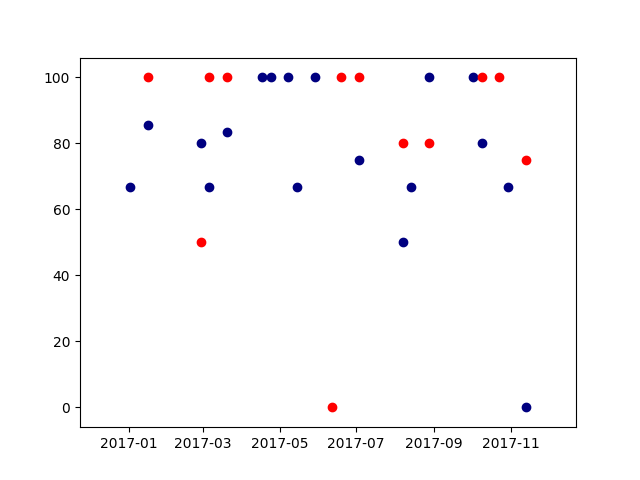
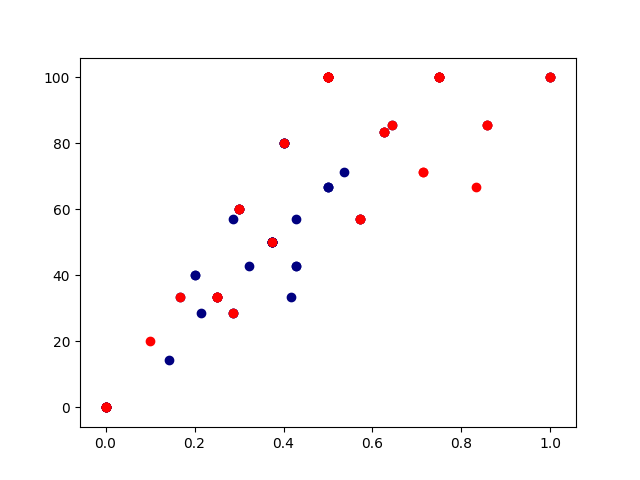
get the mean from current back to some period

diff --git a/src/dw/tennis_data_handle.py b/src/dw/tennis_data_handle.py
@@ -6,6 +6,7 @@ import pandas as pd
 import numpy as np
 import time
 import matplotlib.pyplot as plt
+from sklearn import preprocessing
 
 '''
 purpose: select query to get the main table and check the data
@@ -21,17 +22,16 @@ cursor = db1.cursor()
 
 
 sql_commnd = '''
-    SELECT player_name, win_percent, tourney_date 
+    SELECT *, win_percent * level_weight as wt_win_percent
     FROM player_wl_tourney
-    WHERE (lower(player_name) like '%raf%nad%' or lower(player_name) like '%rog%fed%') and tourney_date between '2017-01-01 00:00:00' and '2017-12-31 23:59:00' 
-    ORDER BY tourney_date
+    WHERE (lower(player_name) like '%raf%nad%' or lower(player_name) like '%rog%fed%') and tourney_date between '2015-01-01 00:00:00' and '2017-12-31 23:59:00' 
+    ORDER BY player_name, tourney_date
     '''
-
+# 
 df = pd.read_sql_query(sql = sql_commnd, con=db1)
 
-# cursor.execute('show columns in player_info')
-# tables = cursor.fetchall()
-# print (tables)
+db1.close()
+
 
 winner_name = 'winner_name'
 tourney_name = 'tourney_name'
@@ -42,12 +42,26 @@ surface = 'surface'
 draw_size = 'draw_size'
 loser_count = 'loser_count'
 win_percent = 'win_percent'
+rolling_score_180 = 'rolling_score_180'
+wt_win_percent = 'wt_win_percent'
 
-db1.close()
+
+
+# print (df.shape)
+def get_rolling_amount(grp, freq): 
+    return grp.rolling(freq, on='tourney_date')['wt_win_percent'].mean()
+
+df['rolling_score_180'] = np.transpose(df.groupby('player_name', as_index = False, group_keys = False).apply(get_rolling_amount, '180D'))
+# print (df.head())
+
+df['scaled_xxx'] = (df[wt_win_percent] - df[wt_win_percent].min())/ (df[wt_win_percent].max() - df[wt_win_percent].min())
 # print (df.head())
 fig, axes = plt.subplots(1, 1)
-axes.scatter(df.loc[df[player_name] == 'Rafael Nadal', tourney_date], df.loc[df[player_name] == 'Rafael Nadal', win_percent], c = 'navy')
-axes.scatter(df.loc[df[player_name] == 'Roger Federer', tourney_date], df.loc[df[player_name] == 'Roger Federer', win_percent], c = 'red')
+axes.scatter(df.loc[df[player_name] == 'Rafael Nadal', 'scaled_xxx'], df.loc[df[player_name] == 'Rafael Nadal', win_percent], c = 'navy')
+
+
+
+axes.scatter(df.loc[df[player_name] == 'Roger Federer', 'scaled_xxx'], df.loc[df[player_name] == 'Roger Federer', win_percent], c = 'red')
 plt.savefig('pic_output.png')
 
-# print (df.loc[df[player_name] == 'Rafael Nadal', tourney_date])
+# # print (df.loc[df[player_name] == 'Rafael Nadal', tourney_date])
